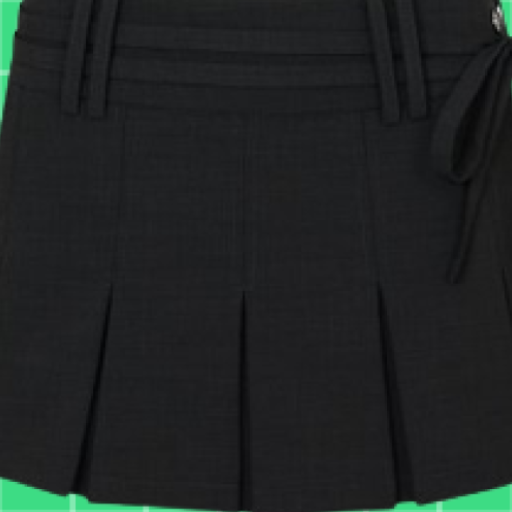
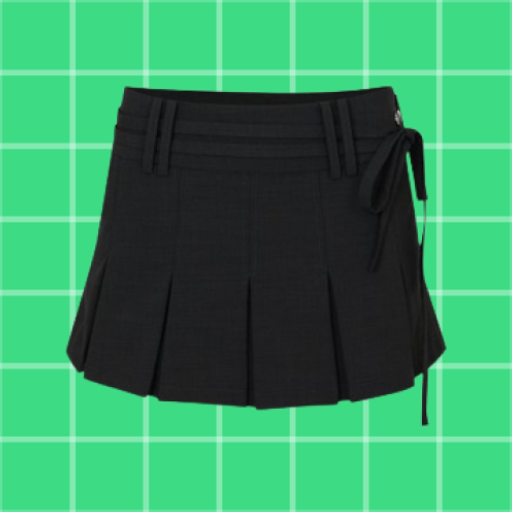
옷입히기 수정2

diff --git a/app/src/main/java/org/techtown/weartheweather/user_input_fashion.java b/app/src/main/java/org/techtown/weartheweather/user_input_fashion.java
@@ -63,6 +63,10 @@ public class user_input_fashion extends AppCompatActivity {
         Button jumper = findViewById(R.id.jumper);
         Button zipup = findViewById(R.id.zipup);
         Button cardigon = findViewById(R.id.cardigon);
+        ImageView input_outer = findViewById(R.id.input_outer);
+        ImageView input_top = findViewById(R.id.input_top);
+        ImageView input_pants = findViewById(R.id.intput_pants);
+        ImageView input_shoes = findViewById(R.id.input_shoes);
 
         user_input_fashion_button_1.setOnTouchListener((view, motionEvent) -> {
             if (motionEvent.getAction() == MotionEvent.ACTION_UP) {
@@ -79,6 +83,7 @@ public class user_input_fashion extends AppCompatActivity {
         });
         coat.setOnTouchListener((view,motionEvent)-> {
             if (motionEvent.getAction() == MotionEvent.ACTION_UP) {
+                input_outer.setBackgroundResource(R.mipmap.coat_foreground);
                 coat.setText("selected");
                 padding.setText("");
                 jumper.setText("");
@@ -88,6 +93,7 @@ public class user_input_fashion extends AppCompatActivity {
         });
         padding.setOnTouchListener((view,motionEvent)-> {
             if (motionEvent.getAction() == MotionEvent.ACTION_UP) {
+                input_outer.setBackgroundResource(R.mipmap.padding_foreground);
                 coat.setText("");
                 padding.setText("selected");
                 jumper.setText("");
@@ -97,6 +103,7 @@ public class user_input_fashion extends AppCompatActivity {
         });
         jumper.setOnTouchListener((view,motionEvent)-> {
             if (motionEvent.getAction() == MotionEvent.ACTION_UP) {
+                input_outer.setBackgroundResource(R.mipmap.jumper_foreground);
                 coat.setText("");
                 padding.setText("");
                 jumper.setText("selected");
@@ -106,6 +113,7 @@ public class user_input_fashion extends AppCompatActivity {
         });
         zipup.setOnTouchListener((view,motionEvent)-> {
             if (motionEvent.getAction() == MotionEvent.ACTION_UP) {
+                input_outer.setBackgroundResource(R.mipmap.zipup_foreground);
                 coat.setText("");
                 padding.setText("");
                 jumper.setText("");
@@ -115,6 +123,7 @@ public class user_input_fashion extends AppCompatActivity {
         });
         cardigon.setOnTouchListener((view,motionEvent)-> {
             if (motionEvent.getAction() == MotionEvent.ACTION_UP) {
+                input_outer.setBackgroundResource(R.mipmap.cardigon_foreground);
                 cardigon.setText("selected");
                 coat.setText("");
                 padding.setText("");
@@ -141,6 +150,7 @@ public class user_input_fashion extends AppCompatActivity {
         Button tshirt = findViewById(R.id.tshirt);
         hood.setOnTouchListener((view,motionEvent)-> {
             if (motionEvent.getAction() == MotionEvent.ACTION_UP) {
+                input_top.setBackgroundResource(R.mipmap.hood_foreground);
                 hood.setText("selected");
                 mantoman.setText("");
                 knit.setText("");
@@ -150,6 +160,7 @@ public class user_input_fashion extends AppCompatActivity {
         });
         mantoman.setOnTouchListener((view,motionEvent)-> {
             if (motionEvent.getAction() == MotionEvent.ACTION_UP) {
+                input_top.setBackgroundResource(R.mipmap.mantoman_foreground);
                 hood.setText("");
                 mantoman.setText("selected");
                 knit.setText("");
@@ -159,6 +170,7 @@ public class user_input_fashion extends AppCompatActivity {
         });
         knit.setOnTouchListener((view,motionEvent)-> {
             if (motionEvent.getAction() == MotionEvent.ACTION_UP) {
+                input_top.setBackgroundResource(R.mipmap.knit_foreground);
                 hood.setText("");
                 mantoman.setText("");
                 knit.setText("selected");
@@ -168,6 +180,7 @@ public class user_input_fashion extends AppCompatActivity {
         });
         tshirt.setOnTouchListener((view,motionEvent)-> {
             if (motionEvent.getAction() == MotionEvent.ACTION_UP) {
+                input_top.setBackgroundResource(R.mipmap.tshirts_foreground);
                 hood.setText("");
                 mantoman.setText("");
                 knit.setText("");
@@ -198,6 +211,7 @@ public class user_input_fashion extends AppCompatActivity {
         });
         shortskirt.setOnTouchListener((view,motionEvent)-> {
             if (motionEvent.getAction() == MotionEvent.ACTION_UP) {
+                input_pants.setBackgroundResource(R.mipmap.shortskirt_foreground);
                 shortskirt.setText("selected");
                 longskirt.setText("");
                 longpants1.setText("");
@@ -210,6 +224,7 @@ public class user_input_fashion extends AppCompatActivity {
         });
         longskirt.setOnTouchListener((view,motionEvent)-> {
             if (motionEvent.getAction() == MotionEvent.ACTION_UP) {
+                input_pants.setBackgroundResource(R.mipmap.longskirt_foreground);
                 shortskirt.setText("");
                 longskirt.setText("selected");
                 longpants1.setText("");
@@ -222,6 +237,7 @@ public class user_input_fashion extends AppCompatActivity {
         });
         longpants1.setOnTouchListener((view,motionEvent)-> {
             if (motionEvent.getAction() == MotionEvent.ACTION_UP) {
+                input_pants.setBackgroundResource(R.mipmap.longpants_training_foreground);
                 shortskirt.setText("");
                 longskirt.setText("");
                 longpants1.setText("selected");
@@ -234,6 +250,7 @@ public class user_input_fashion extends AppCompatActivity {
         });
         longpants2.setOnTouchListener((view,motionEvent)-> {
             if (motionEvent.getAction() == MotionEvent.ACTION_UP) {
+                input_pants.setBackgroundResource(R.mipmap.longpants_blue_foreground);
                 shortskirt.setText("");
                 longskirt.setText("");
                 longpants1.setText("");
@@ -246,6 +263,7 @@ public class user_input_fashion extends AppCompatActivity {
         });
         shortpants.setOnTouchListener((view,motionEvent)-> {
             if (motionEvent.getAction() == MotionEvent.ACTION_UP) {
+                input_pants.setBackgroundResource(R.mipmap.shortpants_training_foreground);
                 shortskirt.setText("");
                 longskirt.setText("");
                 longpants1.setText("");
@@ -258,6 +276,7 @@ public class user_input_fashion extends AppCompatActivity {
         });
         shortpants2.setOnTouchListener((view,motionEvent)-> {
             if (motionEvent.getAction() == MotionEvent.ACTION_UP) {
+                input_pants.setBackgroundResource(R.mipmap.shortpants_blue_foreground);
                 shortskirt.setText("");
                 longskirt.setText("");
                 longpants1.setText("");
@@ -270,6 +289,7 @@ public class user_input_fashion extends AppCompatActivity {
         });
         slacks.setOnTouchListener((view,motionEvent)-> {
             if (motionEvent.getAction() == MotionEvent.ACTION_UP) {
+                input_pants.setBackgroundResource(R.mipmap.longpants_slacks_foreground);
                 shortskirt.setText("");
                 longskirt.setText("");
                 longpants1.setText("");
@@ -301,6 +321,7 @@ public class user_input_fashion extends AppCompatActivity {
         });
         boots.setOnTouchListener((view,motionEvent)-> {
             if (motionEvent.getAction() == MotionEvent.ACTION_UP) {
+                input_shoes.setBackgroundResource(R.mipmap.boots_foreground);
                 boots.setText("selected");
                 sneakers.setText("");
                 sandals.setText("");
@@ -309,6 +330,7 @@ public class user_input_fashion extends AppCompatActivity {
         });
         sneakers.setOnTouchListener((view,motionEvent)-> {
             if (motionEvent.getAction() == MotionEvent.ACTION_UP) {
+                input_shoes.setBackgroundResource(R.mipmap.sneakers_foreground);
                 boots.setText("");
                 sneakers.setText("selected");
                 sandals.setText("");
@@ -317,6 +339,7 @@ public class user_input_fashion extends AppCompatActivity {
         });
         sandals.setOnTouchListener((view,motionEvent)-> {
             if (motionEvent.getAction() == MotionEvent.ACTION_UP) {
+                input_shoes.setBackgroundResource(R.mipmap.sandles_foreground);
                 boots.setText("");
                 sneakers.setText("");
                 sandals.setText("selected");
